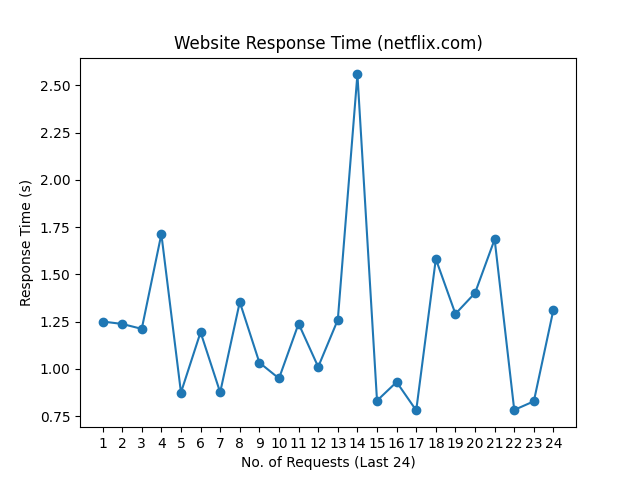
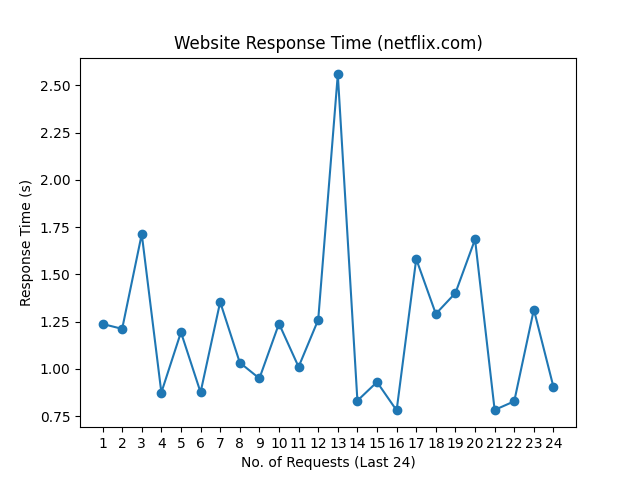
update README.md, history and graph

Changed region(s): [[0.1562, 0.125, 0.875, 0.875]]

diff --git a/README.md b/README.md
@@ -1,10 +1,10 @@
 # Web Monitoring
 
-Last Checked: 16/11/2024 08:20
+Last Checked: 17/11/2024 08:22
 
 | Website | Response Time (s) | Status | Avg Uptime (%) |
 |---------|-------------------|--------|----------------|
 | www.thiswebsiteisdown.net | 0 <br> <img src="graph/thiswebsiteisdown.net.png" alt="Graph" width="200" height="200">  | ❌ Down | 0.00 |
-| www.netflix.com | 1.313933 <br> <img src="graph/netflix.com.png" alt="Graph" width="200" height="200">  | ✅ Up | 100.00 |
-| www.google.com | 0.076398 <br> <img src="graph/google.com.png" alt="Graph" width="200" height="200">  | ✅ Up | 100.00 |
-| www.facebook.com | 0.169518 <br> <img src="graph/facebook.com.png" alt="Graph" width="200" height="200">  | ✅ Up | 100.00 |
+| www.netflix.com | 0.904258 <br> <img src="graph/netflix.com.png" alt="Graph" width="200" height="200">  | ✅ Up | 100.00 |
+| www.google.com | 0.076623 <br> <img src="graph/google.com.png" alt="Graph" width="200" height="200">  | ✅ Up | 100.00 |
+| www.facebook.com | 0.519451 <br> <img src="graph/facebook.com.png" alt="Graph" width="200" height="200">  | ✅ Up | 100.00 |
